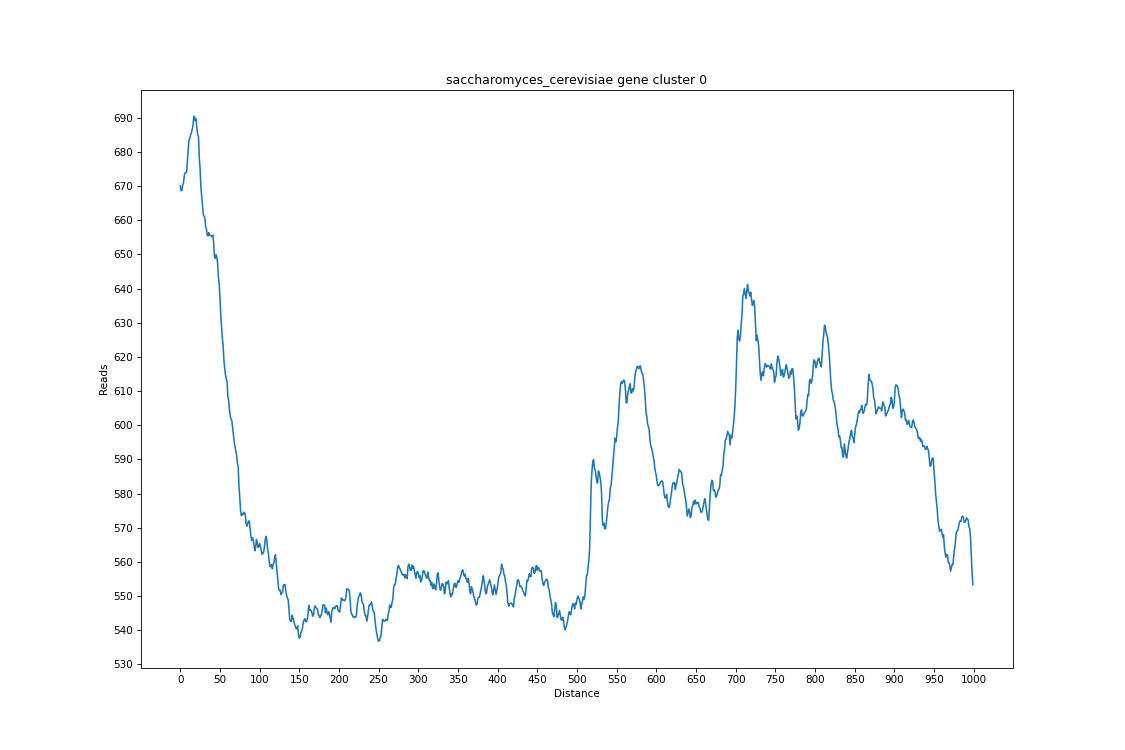
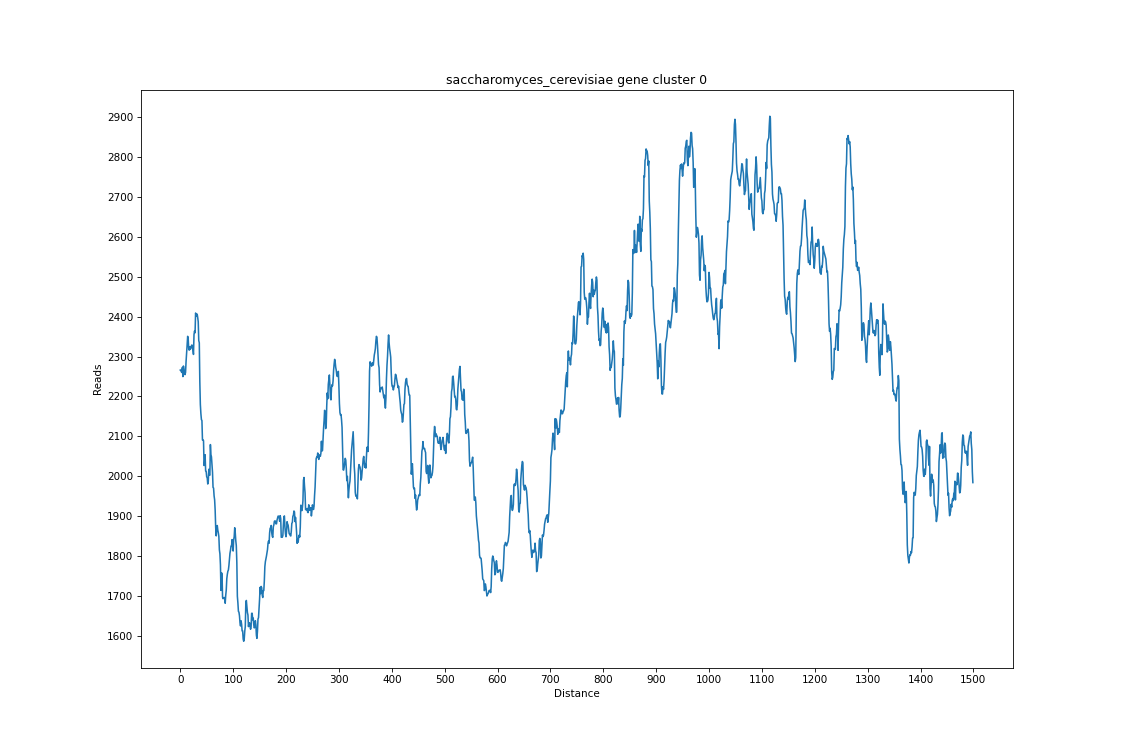
resolve return error

diff --git a/datapros.py b/datapros.py
@@ -185,7 +185,6 @@ class metaGenePlot:
             lengths.append(length) 
         print(lengths)    
     
-    
     # #normalize gff arrays to same length 
     def normalizeArray(self, targetLength):
         if targetLength== 'avg': 
@@ -210,8 +209,7 @@ class metaGenePlot:
                     
                     if math.floor(step)== math.ceil(step):  #reached a whole number step
                         currArray.append(array[int(step)-1])
-                        
-
+                    
                     elif (math.ceil(prev) == math.floor(step))  and prev!= 0: #step cross an integer -> perform weighted average
                         
                         weight1 = ((math.ceil(prev)-prev)/stepSize)*array[int(math.floor(prev))]
@@ -300,7 +298,7 @@ class metaGenePlot:
         elif(numClusters =='auto'): 
             print("Fitting data...") 
             print('features:', len(trendData))
-            clusters, clusterCenters = autoKCluster(trendData)
+            clusters = autoKCluster(trendData)
         else: #divide data into clusters
             print("Fitting data...")
             clusters, distance = kCluster(numClusters, trendData)

diff --git a/kMeansClustering.py b/kMeansClustering.py
@@ -136,7 +136,7 @@ def kCluster(numClusters, data): #
     First = True
     #memory.append(len(data))
     while stop == False:
-        print('read 0' , clusters)
+      
         movers = 0
         #reset clusters
         for i in range(numClusters): #[[],[],[],...]
@@ -181,7 +181,7 @@ def kCluster(numClusters, data): #
         
         #calc final distance
         totDistance = finalDistance(clusters,clusterCenters, data )
-        print('read 3' , clusters)
+      
     return clusters , totDistance
     
 
@@ -212,13 +212,13 @@ def autoKCluster(data):
     diff = totDistance1 
     numClusters = 2 
     while diff>(.2*(totDistancePerIteration[numClusters-2])):
-        clusters, clusterCenters, totDistance = kCluster(numClusters, data)
+        clusters, totDistance = kCluster(numClusters, data)
         totDistancePerIteration.append(totDistance)
         diff= abs(totDistancePerIteration[numClusters-1]-totDistancePerIteration[numClusters-2])
         print(diff)
         numClusters+=1 
     print('Best clusters:' ,  numClusters-1)
-    return clusters , clusterCenters 
+    return clusters  
 
     
     

diff --git a/test.py b/test.py
@@ -10,7 +10,7 @@ from datapros import invertArray
 
 
 test = metaGenePlot('RPKM_alignments.sam','saccharomyces_cerevisiae.gff','gene', 0 ) #single para, if single = true - provide input for left or right end (if exists)
-test.plot( 3,1000)
+test.plot( 'auto',1500)
 
 # labels = []
 # with open('SRR20274751_HUMAN.sam', 'r') as samFile:
